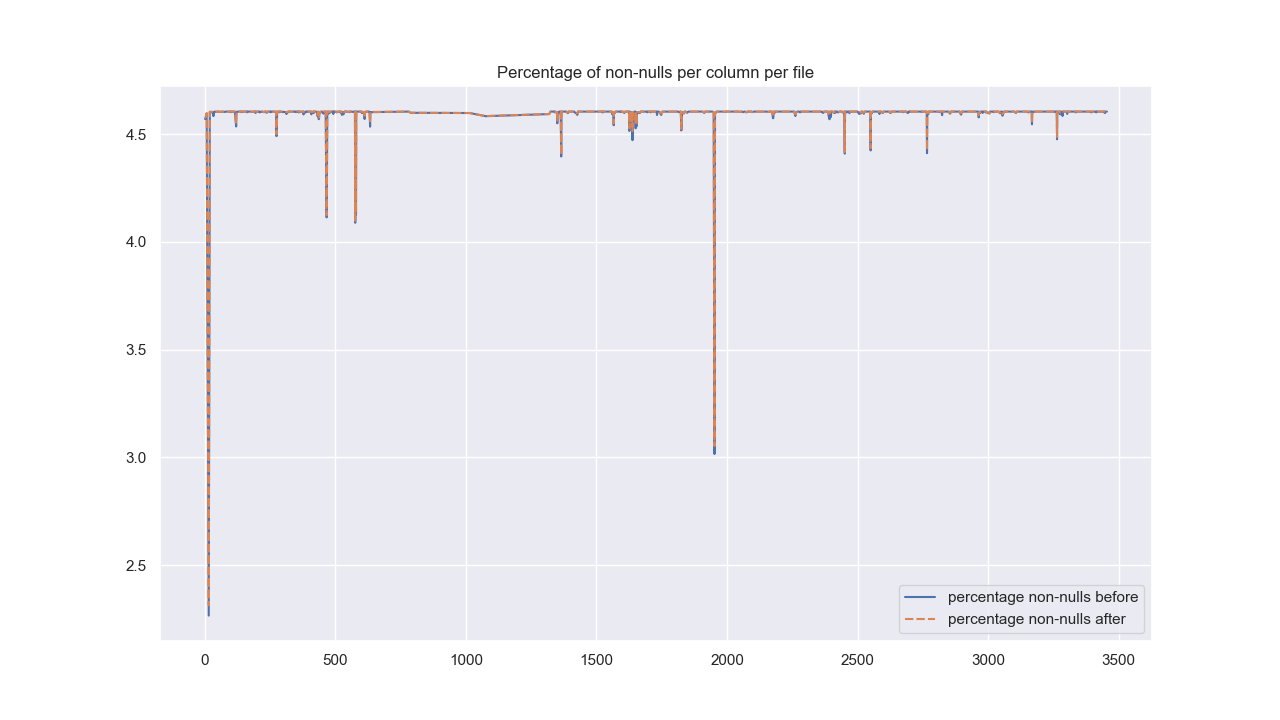
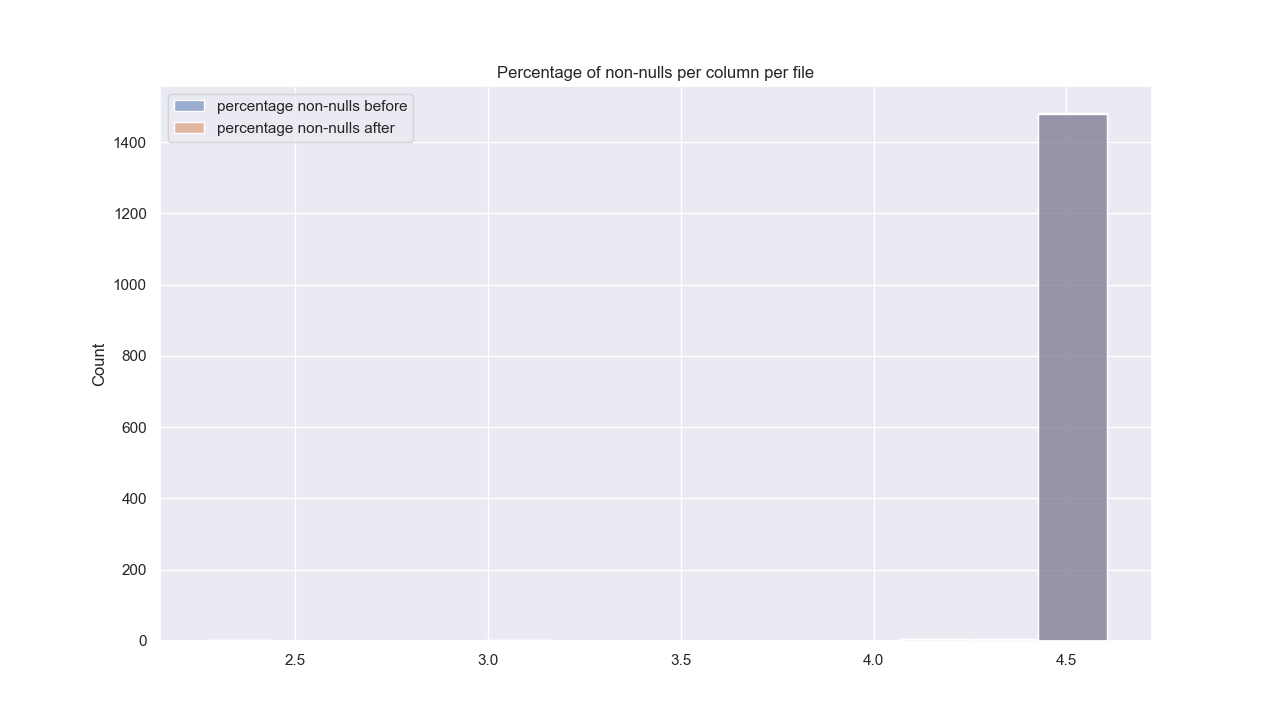
More variety of plots

diff --git a/data_statistics.py b/data_statistics.py
@@ -36,7 +36,7 @@ class DataStatistics(object):
             start,end = data_preprocess_obj.start_end_valid_stat()
             tmp_df_file = pd.DataFrame(columns=['filename', 'valid_cols', 'start','end','nulls_before',
                                     'non_nulls_before','nulls_after','non_nulls_after','percentage non-nulls before',
-                                                        'percentage non-nulls after','reason'])
+                                                        'percentage non-nulls after','diff non nulls','diff non null percentage','reason'])
             for i , c in enumerate(input_data.columns):
                 null_before = input_data[c].isnull().sum()
                 values_before = input_data[c].count()
@@ -54,12 +54,14 @@ class DataStatistics(object):
                     values_after = output_data[c].count()
                 per_nulls_before = float("{:.2f}".format(values_before / input_data.shape[0] * 100))
                 per_nulls_after = float("{:.2f}".format(values_after / input_data.shape[0] * 100))
+                diff_non_nulls, diff_non_null_per = null_before-nulls_after, per_nulls_before-per_nulls_after
                 tmp_df_each_col = pd.DataFrame([[file_to_read, c, start[i], end[i], null_before, values_before,
-                                                 nulls_after, values_after ,per_nulls_before, per_nulls_after,reason]],
+                                                 nulls_after, values_after ,per_nulls_before, per_nulls_after,
+                                                 diff_non_nulls, diff_non_null_per,reason]],
                                                columns=['filename', 'valid_cols', 'start', 'end', 'nulls_before',
                                                         'non_nulls_before', 'nulls_after', 'non_nulls_after',
                                                         'percentage non-nulls before',
-                                                        'percentage non-nulls after', 'reason'])
+                                                        'percentage non-nulls after','diff non nulls','diff non null percentage', 'reason'])
                 tmp_df_file = tmp_df_file.append(tmp_df_each_col, ignore_index=True)
             each_file_summary_gen = each_file_summary_gen.append(tmp_df_file, ignore_index=True)
 

diff --git a/data_visual.py b/data_visual.py
@@ -32,7 +32,7 @@ class DataVisual(object):
         '''
         sns.set_theme()
         data_plot = self.compiled_data[self.compiled_data['reason']!='not a valid column. too many missing values']
-        hist_plot = sns.lineplot(data= np.log(data_plot[['percentage non-nulls before', 'percentage non-nulls after']])).set_title("Percentage of non-nulls per column per file")
+        hist_plot = sns.histplot(data= np.log(data_plot[['percentage non-nulls before', 'percentage non-nulls after']])).set_title("Percentage of non-nulls per column per file")
         fig = hist_plot.get_figure()
         fig.set_size_inches((12.8,7.2))
         fig.savefig("log_tot_non_nulls.png")
@@ -113,15 +113,24 @@ class DataVisual(object):
         comp_data = compiled_data.groupby('valid_cols').count()
         comp_data['valid_cols'] = comp_data.index
         sns.set_theme()
-        hist_plot = sns.histplot(comp_data[['valid_cols','filename']],bins=6)
-        hist_plot.set_xlabel('Attribute')
-        hist_plot.set_ylabel('Number of files')
-        hist_plot.set(title = 'Count of files with type columns')
-        fig = hist_plot.get_figure()
+        bar_plot = sns.barplot(data = comp_data, y = 'filename',x = 'valid_cols')
+        bar_plot.set_xlabel('Attribute')
+        bar_plot.set_ylabel('Number of files')
+        bar_plot.set(title = 'Count of files with type columns')
+        fig = bar_plot.get_figure()
         fig.set_size_inches((12.8,7.2))
         fig.savefig('type_col_file.png')
         fig.clf()
 
+    def visual_best_diff(self):
+        '''
+
+        :return:
+        '''
+        compiled_data = self.compiled_data[self.compiled_data['reason'] != 'not a valid column. too many missing values']
+        comp_data = compiled_data.groupby('filename').count()['valid_cols']
+        file_max_val_col = compiled_data[compiled_data['filename'].isin(list(comp_data[comp_data == comp_data.max()].index))]
+        print("Here")
 
 
 

diff --git a/config_file_creation.py b/config_file_creation.py
@@ -12,7 +12,7 @@ def create_config_file():
         "folder_to_read" : "C:/Users/sengupta/Downloads/erizt_data",
         "folder_to_write" : "C:/Users/sengupta/Downloads/erizt_data_generated",
         "data_gen" : False,
-        "data_stat" : False,
+        "data_stat" : True,
         "data_visualize" : True,
         "data_for_visual" : "003-210525-185548.csv"
     }

diff --git a/main.py b/main.py
@@ -33,6 +33,7 @@ def main_prog():
         data_visual_obj.create_comp() # Compare the input and output file
         data_visual_obj.number_of_col_used()
         data_visual_obj.column_type()
+        data_visual_obj.visual_best_diff()
 
 
 
